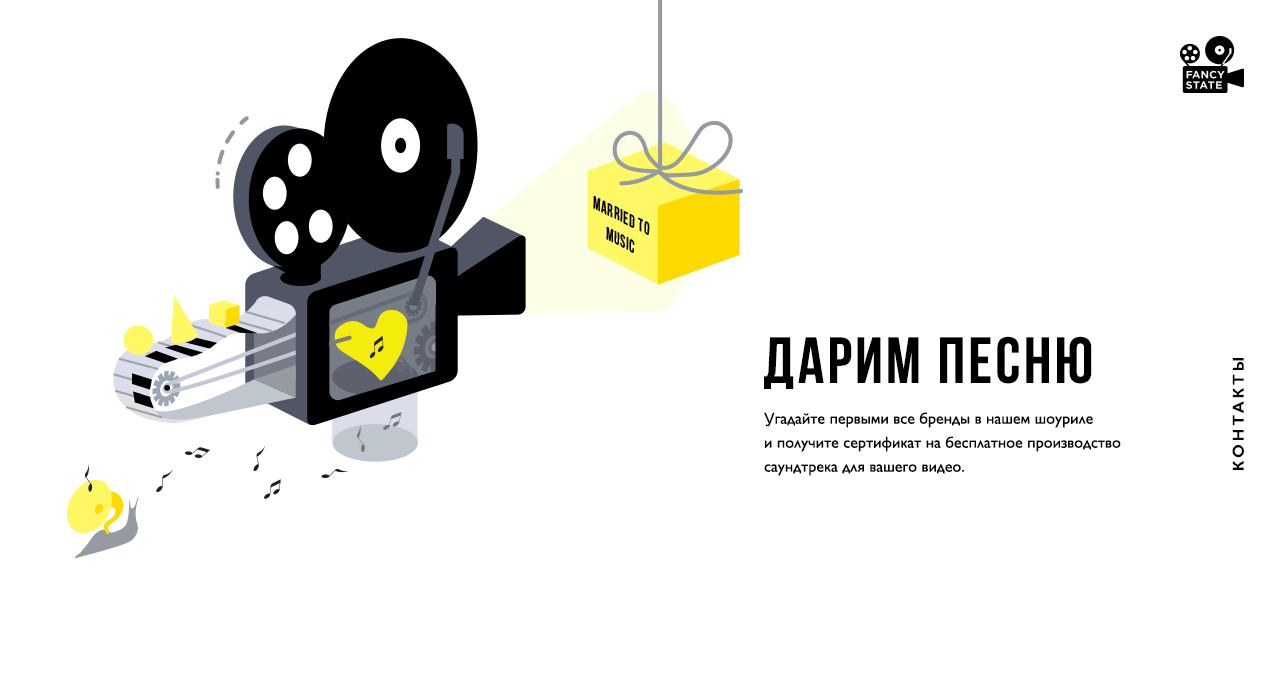
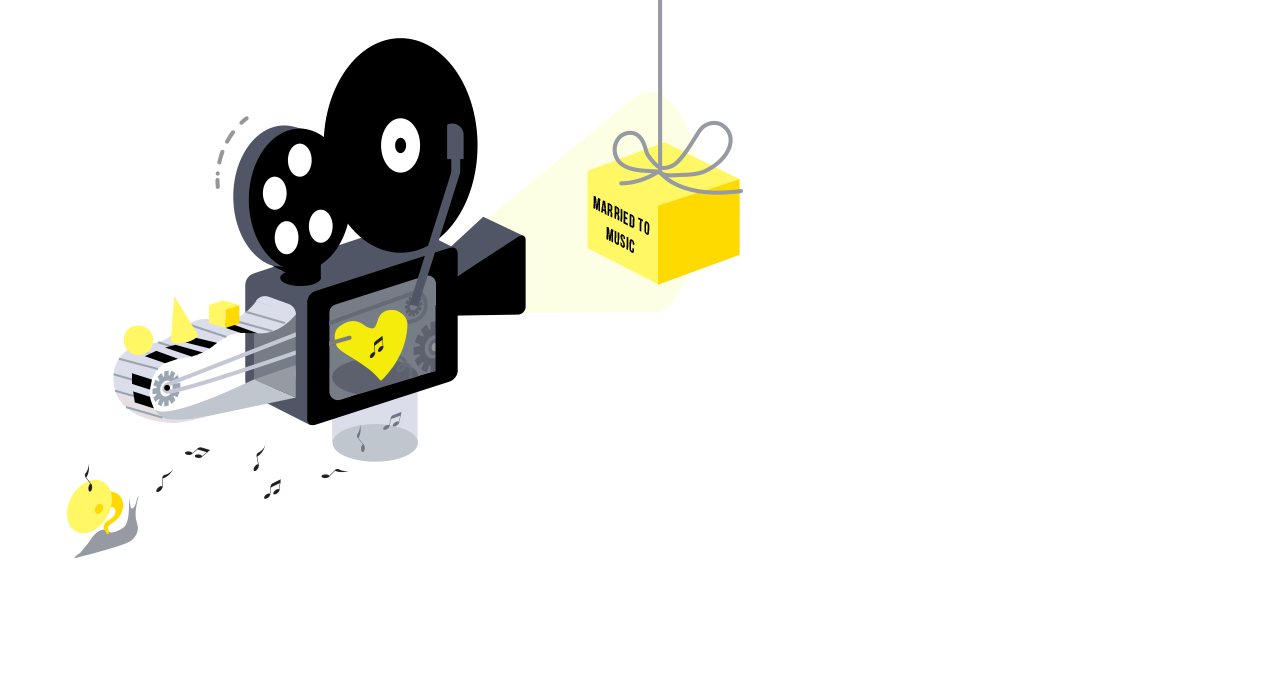
11
11

Changed region(s): [[0.5938, 0.48, 0.875, 0.69], [0.9062, 0.03, 0.9688, 0.15], [0.9375, 0.54, 0.9688, 0.57]]

diff --git a/index.html b/index.html
@@ -9,19 +9,79 @@
     <section class="main">
 
       <section class="big">
-        <div class="picture" id="img1_1"></div>
+       <div class="picture" id="img1_1"></div>
         </div>
+        <section class="logo">
+         <div class="logo" id="logo"></div>
+          </div>
+        </section>
       </section>
+
+
+
 
     <section class="all">
       <div class="small1">
        <iframe width="560" height="315" src="https://www.youtube.com/embed/dN8vHk7oGig?rel=0" frameborder="0" allowfullscreen></iframe>
+
+       <section class="shrimp">
+         <h2>
+          FANCY STATE SHOWREEL'17
+         </h2>
+         <figure></figure>
+       </section>
+
+       <section class="shrimp1">
+         <h3>
+          #SONGS
+        </h3>
+         <figure></figure>
+       </section>
+
       </div>
       <div class="small2">
-      <iframe width="560" height="315" src="https://www.youtube.com/embed/dN8vHk7oGig?rel=0" frameborder="0" allowfullscreen></iframe>
+       <iframe width="560" height="315" src="https://www.youtube.com/embed/dN8vHk7oGig?rel=0" frameborder="0" allowfullscreen></iframe>
       </div>
+      <section class="shrimp2">
+        <h1>
+         FANCY STATE SHOWREEL'17
+       </h1>
+        <figure></figure>
+      </section>
+
+      <section class="shrimp3">
+        <h1>
+         #INSTRUMENTAL
+       </h1>
+        <figure></figure>
+      </section>
     </section>
 
+    <section class="text">
+      <a href="https://www.facebook.com/FancyState/">ДАРИМ ПЕСНЮ</a>
+
     </section>
+     <style>
+     a {
+      text-decoration: none;
+      color: black; /* Цвет текста */
+      }
+      h1 {
+      line-height: 60%;
+      }
+      p {
+      line-height: 1.5;}
+    </style>
+    </section>
+
+
+    <section class="text1">
+      <p>Угадайте первыми все бренды в нашем шоуриле <br>
+      и получите сертификат на бесплатное производство <br>
+      саундтрека для вашего видео.</p>
+    </section>
+
+
+
   </body>
 </html>

diff --git a/stylesheets/cnt.css b/stylesheets/cnt.css
@@ -9,14 +9,15 @@
 
 
 .big {
-  width: 1440px;
-  height: 648px;
-  margin: auto;
+  width: 1100px;
+  height: 650px;
+  margin-left: 30px;
   /*background-color: blue;*/
   display: flex;
   flex-direction: row;
   justify-content: space-between;
   align-items: center;
+  text-decoration: none;
 
 }
 
@@ -30,11 +31,13 @@
 }
 
 .picture {
-  height: 648px;
-  width: 1440px;
+  height: 800px;
+  width: 950px;
+  margin-top: 100px;
   /*padding-top: 5px;*/
   background-color:white;
   background-size: cover;
+  margin-left: -40px;
 }
 .small1 {
   width: 560px;
@@ -55,9 +58,24 @@
   margin-bottom: 50px;
 
 }
-
+.logo {
+  width: 138px;
+  height: 128px;
+  padding-left: px;
+  margin-left: px;
+  margin-top: -180px;
+  margin-right: -300px;
+  /* flex-direction: row; */
+  /* justify-content: space-between; */
+  /* align-items: center; */
+  /* text-decoration: none; */
+}
 
 
 #img1_1 {
 background-image: url(../imgs/img1.png);
+}
+
+#logo {
+  background-image: url(../imgs/logo.png);
 }

diff --git a/stylesheets/btn.css b/stylesheets/btn.css
@@ -1,0 +1,57 @@
+
+.shrimp {
+  font-family: 'Bebas Neue';
+  font-size: 22px;
+  text-decoration: none;
+  color: black;
+  padding-top: 25px;
+  margin-left: 180px;
+}
+
+
+.shrimp1 {
+  padding-top: 9px;
+  margin-left: 235px;
+  font-family: 'Bebas Neue';
+  font-size: 22px;
+  text-decoration: none;
+}
+
+.shrimp2{
+  padding-top: 390px;
+  margin-left: 940px;
+  font-family: 'Bebas Neue';
+  font-size: 22px;
+  text-decoration: none;
+}
+
+
+.shrimp3 {
+  padding-top: 20px;
+  margin-left: 980px;
+  font-family: 'Bebas Neue';
+  font-size: 22px;
+  text-decoration: none;
+}
+
+.text {
+  font-family: 'Bebas Neue';
+  font-size: 80px;
+  text-decoration: none;
+  color: black;
+  padding-top: 25px;
+  margin-left: 860px;
+  margin-top: -770px;
+
+}
+
+.text1 {
+  font-family: 'gill sans';
+  font-size: 18px;
+  text-decoration: none;
+  color: black;
+  padding-top: 25px;
+  margin-left: 860px;
+  margin-top: -20px;
+
+}

diff --git a/stylesheets/style.css b/stylesheets/style.css
@@ -1,3 +1,4 @@
 
 @import "reset.css";
 @import "cnt.css";
+@import "btn.css";
